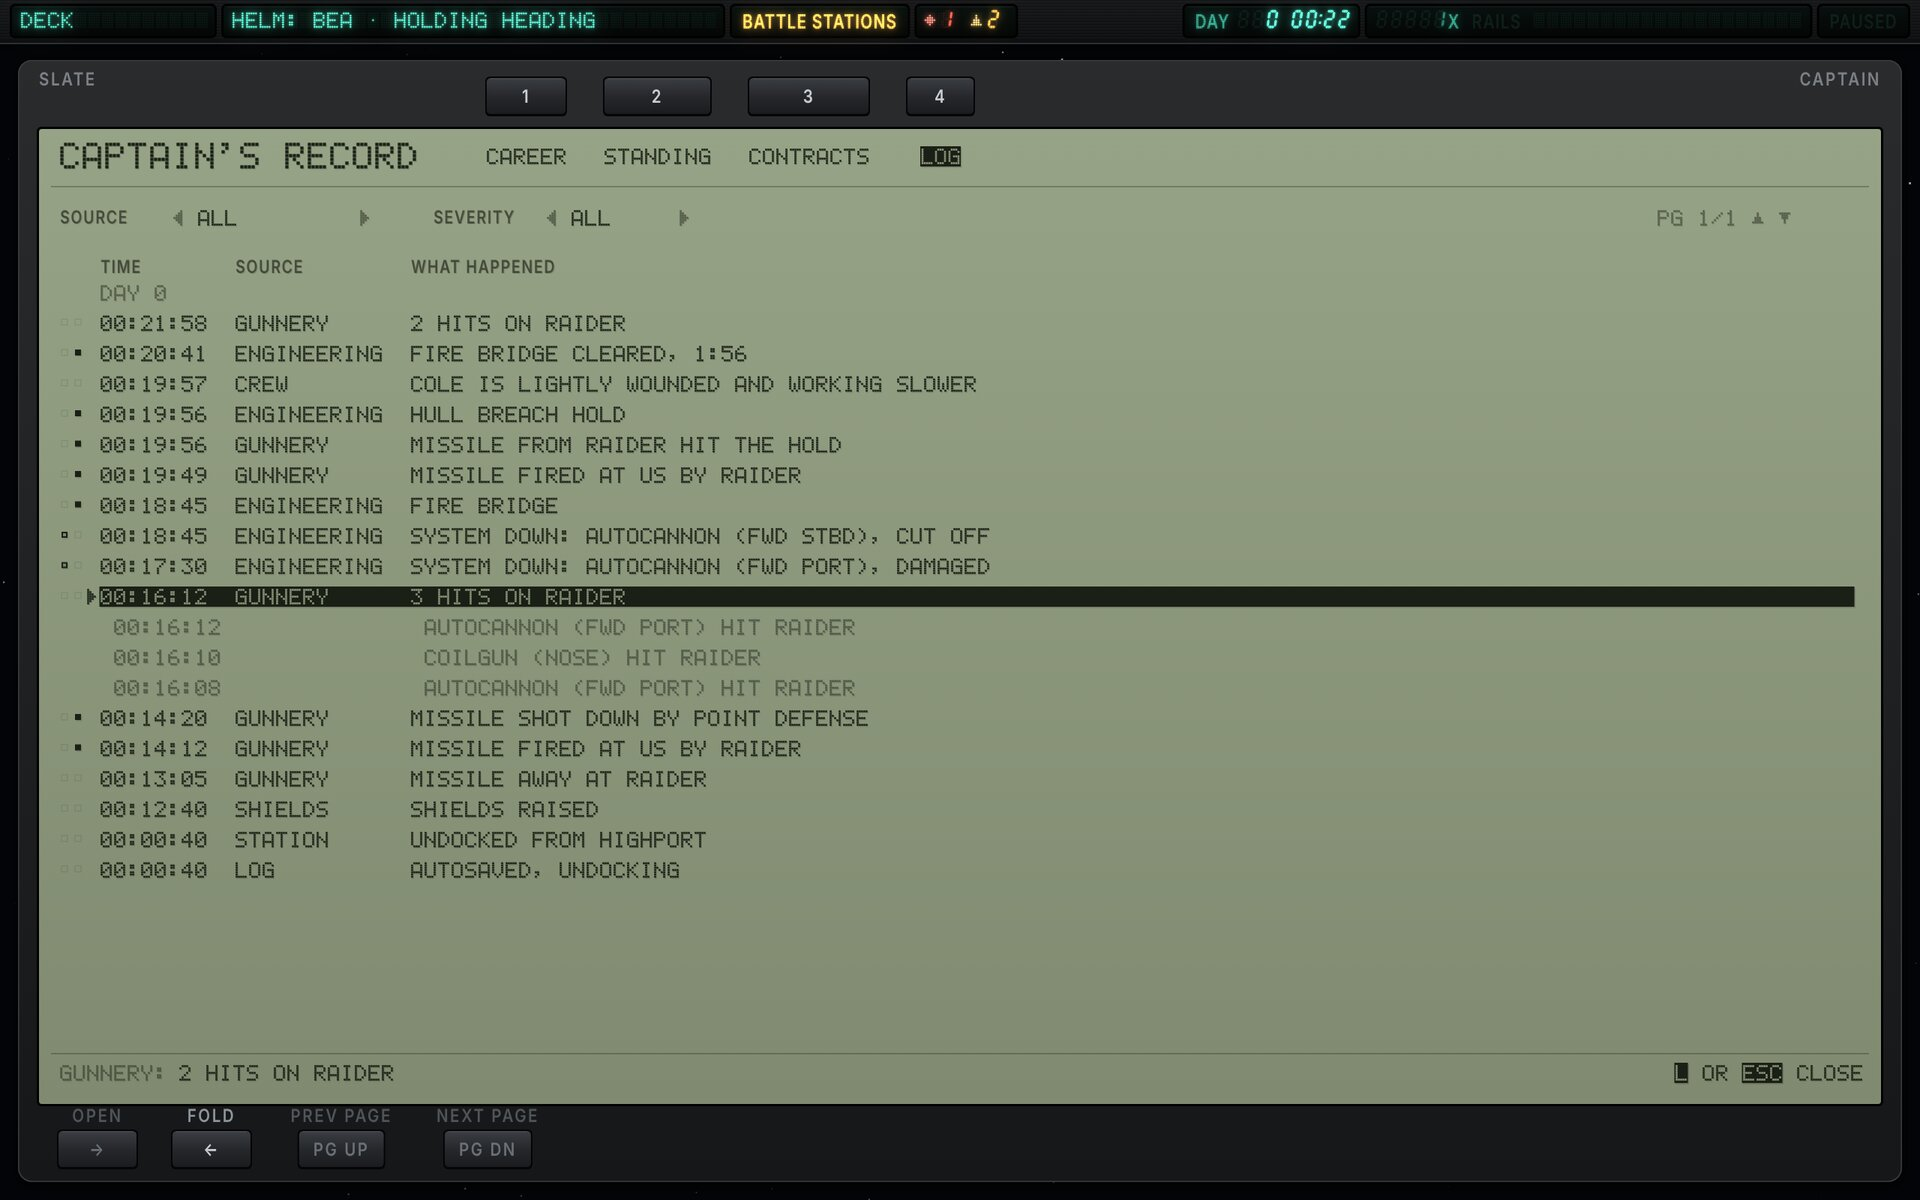
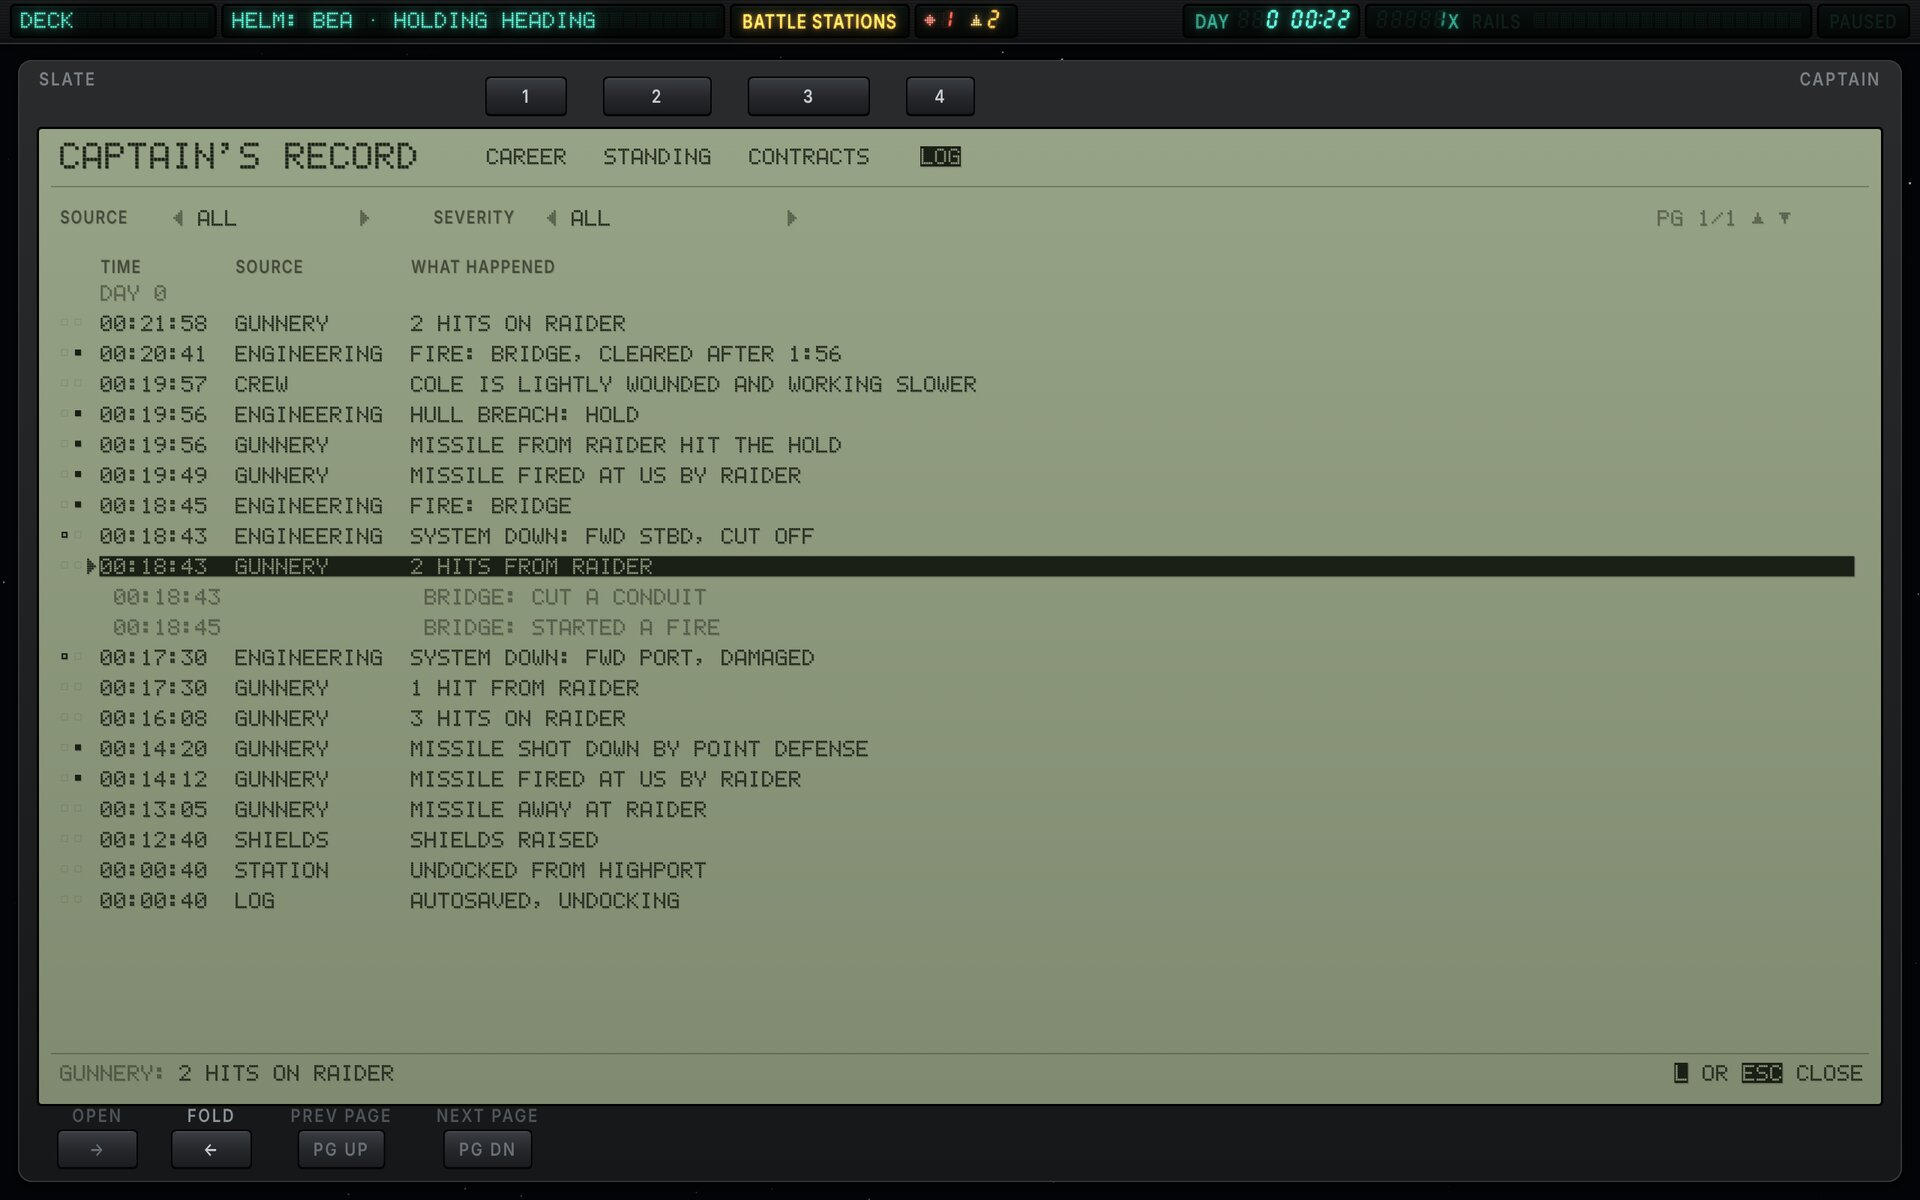
FILAMENT round 12: the Log and the deck emergency for context v17
Version 17 of the context spec took round 12's note on the Log's
sources and changed two screens FILAMENT draws:

- M5: the Log writes conditions in the catalogue's long form
  ("FIRE: BRIDGE, CLEARED AFTER 1:56"), keeps the hits the ship takes
  from guns as merged lines (the one in focus opens to where each hit
  landed and what it did), stamps a merged line with its first event's
  time, and filters by a severity threshold.
- 11.7: a room's air is one P2 row at a time, so the open hold reads
  BREACH on its row and on the master cue; D3's tag still marks the
  vacuum.

Context x FILAMENT has converged.

Claude-Session: https://claude.ai/code/session_019poqwVjy4cV7sgFctDBjVK

diff --git a/documentation/ui-overhaul/vfd/src/context.js b/documentation/ui-overhaul/vfd/src/context.js
@@ -526,7 +526,7 @@
     p2(S, [
       { sev: 'warning', code: 'EMERG O2', you: true },
       { sev: 'warning', code: 'NO POWER', detail: 'DAMAGED', you: true },
-      { sev: 'warning', code: 'VACUUM', detail: 'HOLD', held: true },
+      { sev: 'warning', code: 'BREACH', detail: 'HOLD', held: true },
       { sev: 'warning', code: 'CREW CRIT', detail: 'ADA', crew: 1, timer: '1:40' },
       { sev: 'warning', code: 'FIRE', detail: 'BRIDGE', crew: 1 },
     ], '+1 MORE: SMOKE');
@@ -542,7 +542,7 @@
       { label: 'LIFE SUP', text: 'EMERGENCY', value: '42', unit: 'KG', sev: 'warning' },
     ] });
     d1(S, 702, { you: 'LIGHT WOUND', suit: 'ON', air: '9:40', here: 'THIN AIR', alert: true });
-    cue(S, 640, 750, { warn: 'VACUUM' }, { plate: true });
+    cue(S, 640, 750, { warn: 'BREACH' }, { plate: true });
     S.finish();
   };
 
@@ -1054,9 +1054,10 @@
   // The captain's own book, so FILAMENT builds it on the slate (7.11), across the screen as the mode it is:
   // the frame every mode has, in reflective LCD, its tabs as keys over the glass's title row and the feed
   // and the closing keys in its foot row. Two minutes after M2, the record so far, newest first: P4's
-  // messages and, Log-only at their rows' severity, the conditions P2 raised and cleared and each missile
-  // P3 counted, fired and how it ended. The feed's merged gunnery lines are kept; the one in focus is open
-  // to its events. A condition's or a missile's row takes the source of what it is about, as P4's notices do.
+  // messages and, Log-only, the conditions P2 raised and cleared in the catalogue's long form, each missile
+  // P3 counted, fired and how it ended, and the hits the ship took from guns. Each takes the source of what
+  // it is about and its row's severity (P2). Merged gunnery lines are kept, each at its first event's time;
+  // the one in focus is open to where each hit landed and what it did.
   SCREENS['cx-record'] = async (canvas) => {
     const S = K.scene(canvas);
     K.space(S, { seed: 33 });
@@ -1083,7 +1084,7 @@
       D(vx, fy, '◀', { level: 'dim' }); D(vx + 2 * CWL, fy, value, { cells }); D(vx + (cells + 3) * CWL, fy, '▶', { level: 'dim' });
       return vx + (cells + 4) * CWL;
     };
-    choice(choice(x0, 'SOURCE', 'ALL', 11) + 40, 'SEVERITY', 'ALL', 7);
+    choice(choice(x0, 'SOURCE', 'ALL', 11) + 40, 'SEVERITY', 'ALL', 15);
     D(x1 - 15 * CWL, fy, 'PG 1/1', { level: 'dim' }); D(x1 - 8 * CWL, fy, '▲', { level: 'dim' }); D(x1 - 6 * CWL, fy, '▼', { level: 'dim' });
     // the record: pips, then the time, the source and what happened; the day heads its rows
     const g = SC.grid(S, x0, L.y + 104, Math.floor((L.w - 28) / CWL), 26, { lcd: true });
@@ -1091,16 +1092,17 @@
     g.text(3, 0, 'DAY 0', { level: 'dim' });
     const rows = [
       ['00:21:58', 'GUNNERY', '2 HITS ON RAIDER'],
-      ['00:20:41', 'ENGINEERING', 'FIRE BRIDGE CLEARED, 1:56', 'red'],
+      ['00:20:41', 'ENGINEERING', 'FIRE: BRIDGE, CLEARED AFTER 1:56', 'red'],
       ['00:19:57', 'CREW', 'COLE IS LIGHTLY WOUNDED AND WORKING SLOWER'],
-      ['00:19:56', 'ENGINEERING', 'HULL BREACH HOLD', 'red'],
+      ['00:19:56', 'ENGINEERING', 'HULL BREACH: HOLD', 'red'],
       ['00:19:56', 'GUNNERY', 'MISSILE FROM RAIDER HIT THE HOLD', 'red'],
       ['00:19:49', 'GUNNERY', 'MISSILE FIRED AT US BY RAIDER', 'red'],
-      ['00:18:45', 'ENGINEERING', 'FIRE BRIDGE', 'red'],
-      ['00:18:45', 'ENGINEERING', 'SYSTEM DOWN: AUTOCANNON (FWD STBD), CUT OFF', 'amber'],
-      ['00:17:30', 'ENGINEERING', 'SYSTEM DOWN: AUTOCANNON (FWD PORT), DAMAGED', 'amber'],
-      ['00:16:12', 'GUNNERY', '3 HITS ON RAIDER', null, [['00:16:12', 'AUTOCANNON (FWD PORT) HIT RAIDER'],
-        ['00:16:10', 'COILGUN (NOSE) HIT RAIDER'], ['00:16:08', 'AUTOCANNON (FWD PORT) HIT RAIDER']]],
+      ['00:18:45', 'ENGINEERING', 'FIRE: BRIDGE', 'red'],
+      ['00:18:43', 'ENGINEERING', 'SYSTEM DOWN: FWD STBD, CUT OFF', 'amber'],
+      ['00:18:43', 'GUNNERY', '2 HITS FROM RAIDER', null, [['00:18:43', 'BRIDGE: CUT A CONDUIT'], ['00:18:45', 'BRIDGE: STARTED A FIRE']]],
+      ['00:17:30', 'ENGINEERING', 'SYSTEM DOWN: FWD PORT, DAMAGED', 'amber'],
+      ['00:17:30', 'GUNNERY', '1 HIT FROM RAIDER'],
+      ['00:16:08', 'GUNNERY', '3 HITS ON RAIDER'],
       ['00:14:20', 'GUNNERY', 'MISSILE SHOT DOWN BY POINT DEFENSE', 'red'],
       ['00:14:12', 'GUNNERY', 'MISSILE FIRED AT US BY RAIDER', 'red'],
       ['00:13:05', 'GUNNERY', 'MISSILE AWAY AT RAIDER'],

diff --git a/documentation/ui-overhaul/variations/vfd-context.md b/documentation/ui-overhaul/variations/vfd-context.md
@@ -1,6 +1,6 @@
 # FILAMENT × Context-driven
 
-The context-driven functional design (`functional-context.md`, version 16) built in the FILAMENT style ([`style-vfd.md`](../style-vfd.md)). The spec decides what each widget shows, where and when; this page records how FILAMENT builds it, what the style changes beyond the look, and the critique of each round.
+The context-driven functional design (`functional-context.md`, version 17) built in the FILAMENT style ([`style-vfd.md`](../style-vfd.md)). The spec decides what each widget shows, where and when; this page records how FILAMENT builds it, what the style changes beyond the look, and the critique of each round.
 
 Mockups are drawn by [`vfd/src/context.js`](../vfd/src/context.js) over the game's hull art and a real deck capture; `vfd/src/export.sh` re-renders them.
 
@@ -14,7 +14,7 @@ Mockups are drawn by [`vfd/src/context.js`](../vfd/src/context.js) over the game
 
 ![Helm, combat](vfd/context-helm-combat.jpg)
 
-**11.7 Deck, emergency.** The corvette disabled, its reactor damaged and its hold airless. The emergency card offers the two ways out with their presses and costs; P2 lists, in order, what needs the captain (emergency oxygen, the power, both `YOU`), what is held (the vacuum, `‖`: the crew keep clear of where crew were hit), what the crew are on (Ada's bleed-out, 1:40 and under the two minutes that send the crew in anyway, and the fire, a dot each) and `+1 MORE: SMOKE`; each hazard in view carries a tag; the captain's own kit is LCD; the master lamps stand alone at the bottom centre. The strip is on the dimmer bus.
+**11.7 Deck, emergency.** The corvette disabled, its reactor damaged and its hold airless. The emergency card offers the two ways out with their presses and costs; P2 lists, in order, what needs the captain (emergency oxygen, the power, both `YOU`), what is held (the hold's open breach, `‖`: the crew keep clear of where crew were hit; D3's tag marks its vacuum), what the crew are on (Ada's bleed-out, 1:40 and under the two minutes that send the crew in anyway, and the fire, a dot each) and `+1 MORE: SMOKE`; each hazard in view carries a tag; the captain's own kit is LCD; the master lamps stand alone at the bottom centre. The strip is on the dimmer bus.
 
 ![Deck, emergency](vfd/context-deck-emergency.jpg)
 
@@ -40,7 +40,7 @@ The full-screen modes (spec section 10) are built in the mode frame of the guide
 
 ![Boarding mode](vfd/context-boarding-mode.jpg)
 
-**M5 Captain's record (10.5).** A slate across the screen in the mode's frame: its tab keys in the housing over the glass's title row, the feed and the closing keys in the glass's last row. The Log is showing, two minutes after M2: the record so far, newest first, under its two filters (source and severity, each a value between ◀ and ▶ stepped with ← and →). With the messages are the Log-only rows at their rows' severity: the conditions P2 raised and cleared (`FIRE BRIDGE`, and 1:56 later `FIRE BRIDGE CLEARED`), and each missile P3 counted, when it was fired at the ship and how it ended, shot down by point defense or into the HOLD. The feed's merged gunnery lines are kept, and the one in focus is open to its three hits, each with its time. The list pages rather than scrolls, as every FILAMENT list does: ↑ and ↓ move the focus, Page Up, Page Down and the wheel turn the page, and → and ← open and fold a merged line.
+**M5 Captain's record (10.5).** A slate across the screen in the mode's frame: its tab keys in the housing over the glass's title row, the feed and the closing keys in the glass's last row. The Log is showing, two minutes after M2: the record so far, newest first, under its two filters (one source or all, and a severity threshold, each a value between ◀ and ▶ stepped with ← and →). With the messages are the Log-only rows, each under the source of what it is about and at its row's severity: the conditions P2 raised and cleared, in the catalogue's long form (`FIRE: BRIDGE`, then `FIRE: BRIDGE, CLEARED AFTER 1:56`), each missile P3 counted, when it was fired at the ship and how it ended (shot down by point defense, or into the HOLD), and the hits the ship took from guns. Merged gunnery lines are kept, each at its first event's time, and the one in focus is open to where each hit landed and what it did: the two in the BRIDGE that cut the FWD STBD autocannon's conduit and started the fire. The list pages rather than scrolls, as every FILAMENT list does: ↑ and ↓ move the focus, Page Up, Page Down and the wheel turn the page, and → and ← open and fold a merged line.
 
 ![Captain's record](vfd/context-record.jpg)
 
@@ -166,7 +166,7 @@ The guide gained the ship's plan (18.3) and a wider fourteen-segment field for a
 
 Version 15 took both round-6 notes: 11.11's stopped RCS quad, the HOLD's breach and Cole's light wound are one hit on one hull tile, and every system takes the switch, a group's row switching the group and the reactor's guarded. M2 is redrawn for them: the breach's callout names Cole's wound; the board's notes give the hit, the two waits and why a cut conduit shows under Power; the feed is the game's wound notice (`CrewMedical`); and `OPEN` and `FOLD` sit beside `SWITCH` for a group's members. Checking version 15 against the game found nothing more: the RCS blocks belong to the ship's grid, not its systems (`ShipGridComponent.rcsThrusters`), and sealing the breach leaves the quad stopped until the repair outside frames its tile again, as 11.11 now says.
 
-Version 16 gave the Log a fight's record and the gun seat its own controls, so the last two modes are drawn: M5 on the slate with the Log showing, and M6 as the card with its tabs. Every screen the spec has is now drawn. Drawing the Log turned up one note (round 7, below).
+Version 16 gave the Log a fight's record and the gun seat its own controls, so the last two modes are drawn: M5 on the slate with the Log showing, and M6 as the card with its tabs. Every screen the spec has is now drawn. Drawing the Log turned up one note (round 7, below), which version 17 took, filing a condition's row by what it is about much as FILAMENT had. Version 17 also writes the Log's conditions in the catalogue's long form, adds the hits the ship takes from guns as merged lines, makes the severity filter a threshold, and shows a room's air as one P2 row at a time, so 11.7's row and master cue read `BREACH` for the open hold (D3's tag still marks the vacuum where people walk into it). M5 and 11.7 are redrawn for them. Converged.
 
 The guide gained the slate and the card as modes (18.4, 18.6) and a group's row with `OPEN` and `FOLD` (18.2).
 
@@ -201,6 +201,6 @@ Round 6 (after version 14; both taken in version 15):
 1. **The stopped RCS block is on the breach.** The game stops a block only while the hull tile it is bolted to is wrecked (`RcsThruster.fieldRepairable`), and a wrecked hull tile beside the interior is a breach (`Tile.isHullBreach`, the `SealBreachTask` the scan posts). Every block on the corvette stands on such a tile, so 11.11's one stopped block puts a breach on its tile, and with the only breach in the HOLD, the block is one of the hold's two aft quads. FILAMENT draws the port one: one hit made the breach, stopped the quad and wounded Cole, and its two jobs are the seal from inside and the thruster's repair outside. Suggest 11.11's text say so, or the sample's breach move to where it can't stop a block.
 2. **Which systems have a switch.** Wireframe 11 gives `[off]` to the reactor and the coilgun only; the game lets every system be switched off (`SubsystemComponent.switchedOn`, `ConsoleWindow`'s switch). FILAMENT has one `SWITCH` key on the focused row, its LED lit while that system is on. Suggest 10.2 say which systems take the switch: all, as the game has it, or a subset and why.
 
-Round 7 (after version 16):
+Round 7 (after version 16; taken in version 17):
 
 1. **The source of a Log-only row.** The Log filters by source, but P2's conditions and P3's missiles are not notices, and neither 10.5 nor P4 says which source their rows take, or what severity a missile's row has (P3's rows have none). FILAMENT files each by what it is about, as P4 does a notice: fire, breaches, vacuum and systems under Engineering, a crew member's wound under Crew, shields under Shields, the orbit, the approach and the plan under Helm, boarders under Boarding, and a missile fired at the ship, shot down or hitting it under Gunnery, as a warning. Suggest 10.5 say so, or name the sources it means.

diff --git a/documentation/ui-overhaul/variations/vfd-rounds.md b/documentation/ui-overhaul/variations/vfd-rounds.md
@@ -5,18 +5,16 @@ Each round, the three FILAMENT variations ([stations](vfd-stations.md), [context
 | Variation | Spec version used | Status after the latest round |
 |---|---|---|
 | Ship stations | `functional-stations.md` round 14 | Converged in round 7; round 10 adds the panels: the Plot, the station link, the slate |
-| Context-driven | `functional-context.md` version 16 | Round 12: every screen the spec has is drawn, M2 as version 15 has it and M5 and M6 for 16; one note out |
+| Context-driven | `functional-context.md` version 17 | Converged in round 12: every screen the spec has is drawn, the last of them (the ship's systems, the captain's record, the controls) as versions 15 to 17 have them |
 | Task-driven | `functional-task.md` round 9 | Converged in round 9; round 10 adds the map, the station terminal, the ship's book and boarding |
 
 A variation that has converged reopens when its spec changes something visible, or a designer's answer to a note does.
 
 ## Round 12
 
-**Context** (versions 15 and 16). The designer took both of round 11's notes: the stopped RCS quad, the HOLD's breach and Cole's light wound are one hit, and every system takes the switch, a group's row switching the group and the reactor's pressed twice. M2 is redrawn: the breach's callout and the board's notes tell the hit, the feed is the game's wound notice, and `OPEN` and `FOLD` sit beside `SWITCH` for a group's members. Version 16 gave the Log a fight's record and the gun seat its own controls, so the last two modes are drawn: the captain's record (M5) on the slate with the Log showing, its conditions, missiles and merged gunnery lines, and the controls (M6) as the card with its tabs and the seat sections.
+**Context** (versions 15 to 17). The designer took both of round 11's notes: the stopped RCS quad, the HOLD's breach and Cole's light wound are one hit, and every system takes the switch, a group's row switching the group and the reactor's pressed twice. M2 is redrawn: the breach's callout and the board's notes tell the hit, the feed is the game's wound notice, and `OPEN` and `FOLD` sit beside `SWITCH` for a group's members. Version 16 gave the Log a fight's record and the gun seat its own controls, so the last two modes are drawn: the captain's record (M5) on the slate with the Log showing, its conditions, missiles and merged gunnery lines, and the controls (M6) as the card with its tabs and the seat sections. Drawing the Log raised one note, which source and severity a Log-only row takes; version 17 took it, and also wrote the Log's conditions in their long form, added the hits taken from guns as merged lines, and showed a room's air as one P2 row at a time, so 11.7 reads `BREACH` for the open hold. M5 and 11.7 are redrawn. Converged.
 
 **Guide.** The slate and the card as modes (18.4, 18.6); a group's row opens and folds (18.2).
-
-**Sent to the designers.** Context: which source and severity a Log-only row takes (the Log filters by source, and P2's conditions and P3's missiles are not notices).
 
 ## Round 11
 
